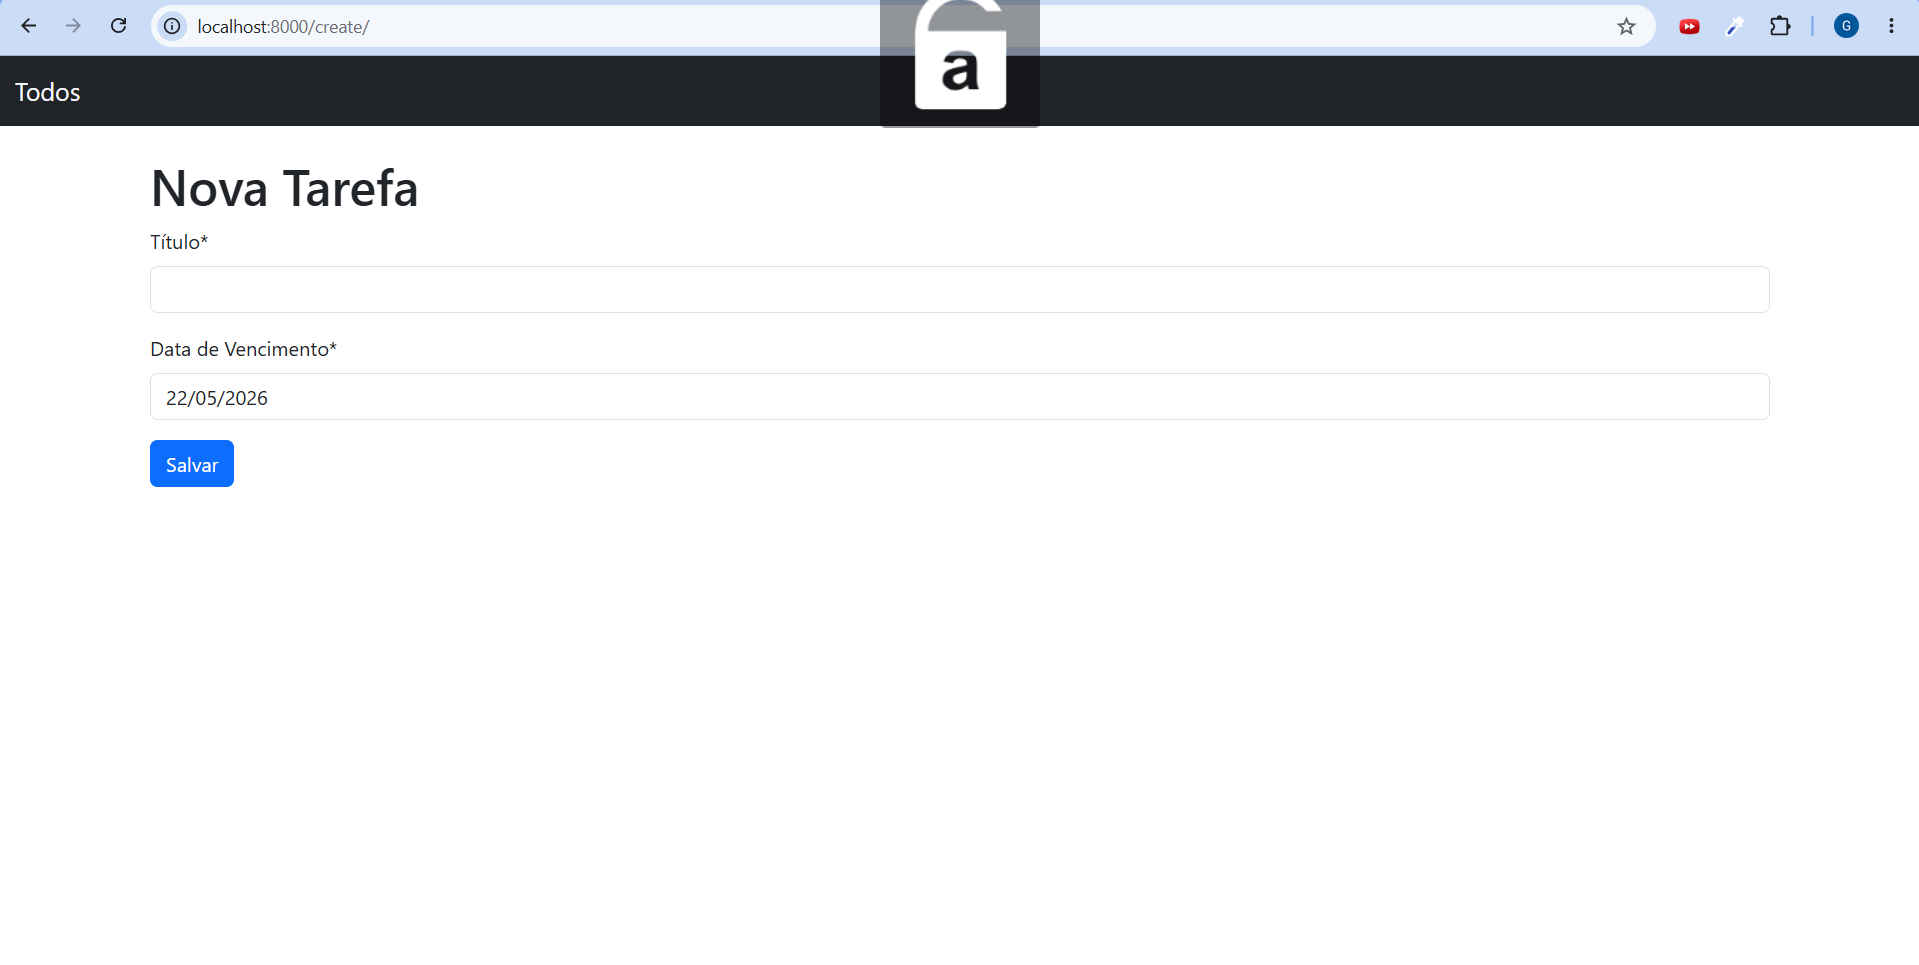
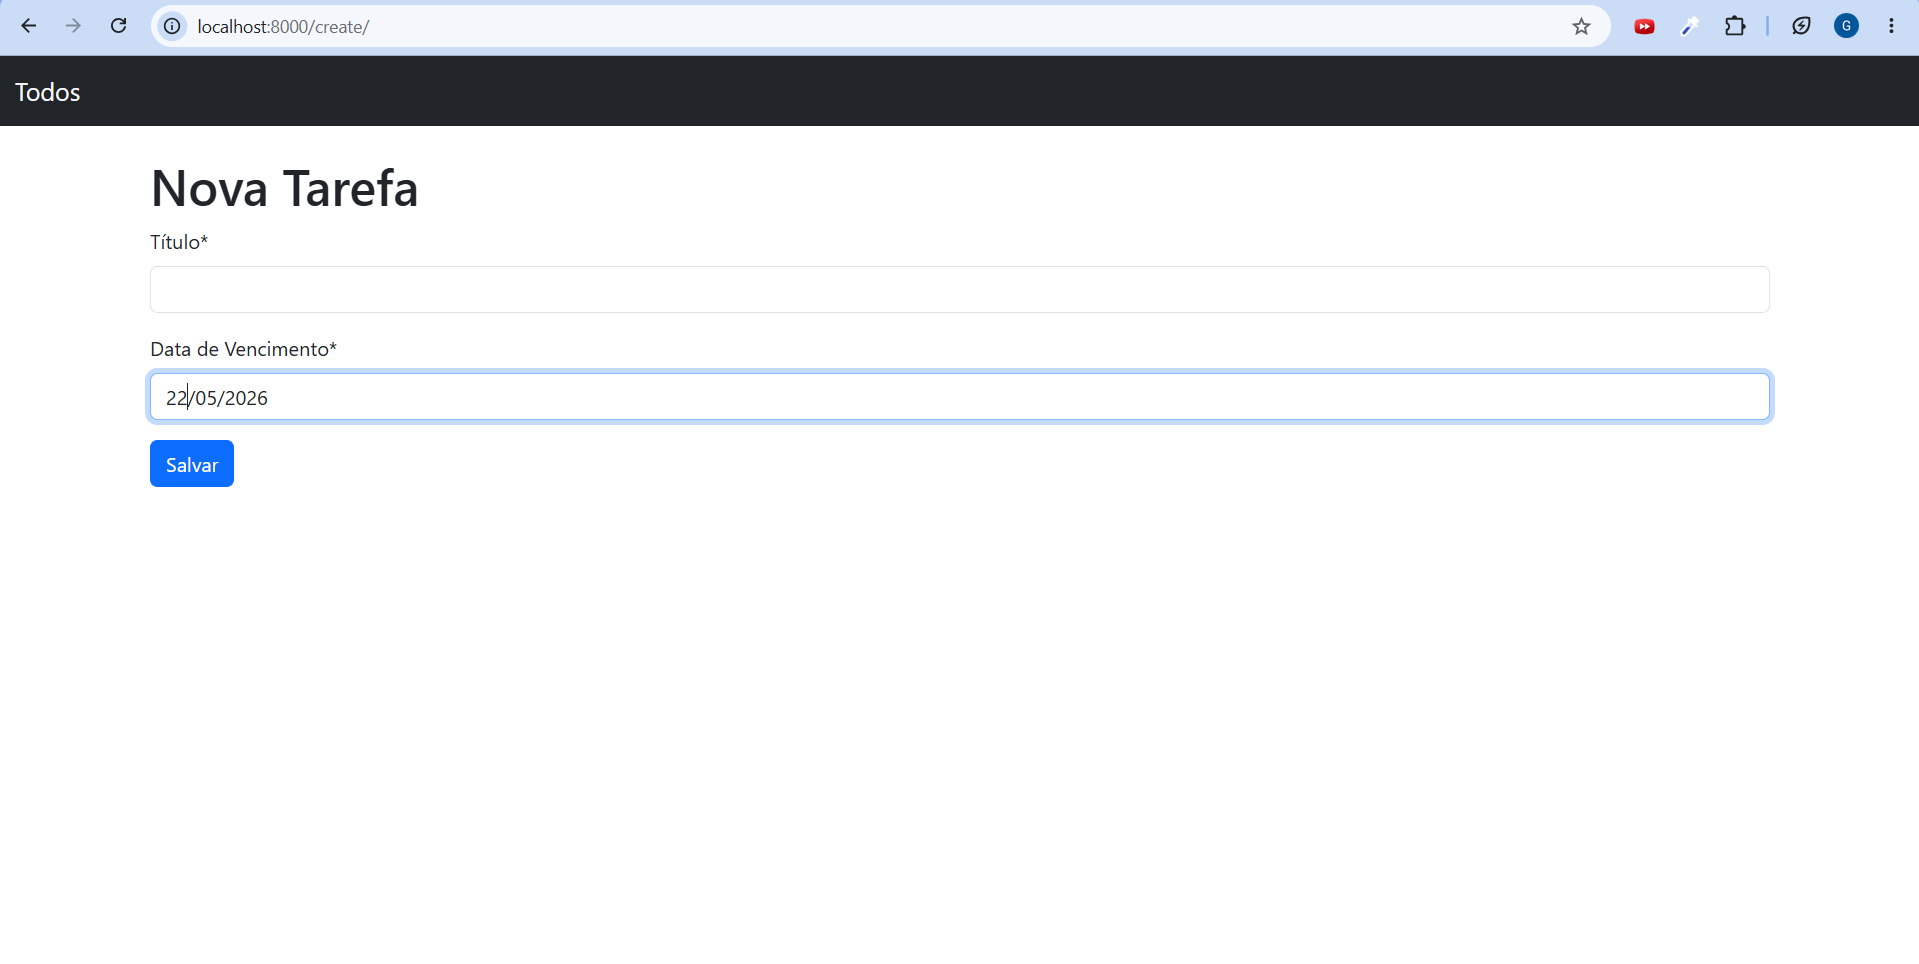
Atualizando screenshots

Changed region(s): [[0.0615, 0.3423, 0.9224, 0.4668], [0.4612, 0.0, 0.5534, 0.1245], [0.8301, 0.0, 0.9531, 0.0622]]

diff --git a/README.md b/README.md
@@ -71,7 +71,7 @@ Durante o desenvolvimento deste projeto foram praticados conceitos como:
 
 ![Criando tarefa](imgs/Criando_Tarefa.png)
 ![Edição de Tarefa](imgs/Edição_Tarefa.png)
-![Criando tarefa](imgs/Tela_principal.png)
+![Tela Principal](imgs/Tela_principal.png)
 
 
 ---